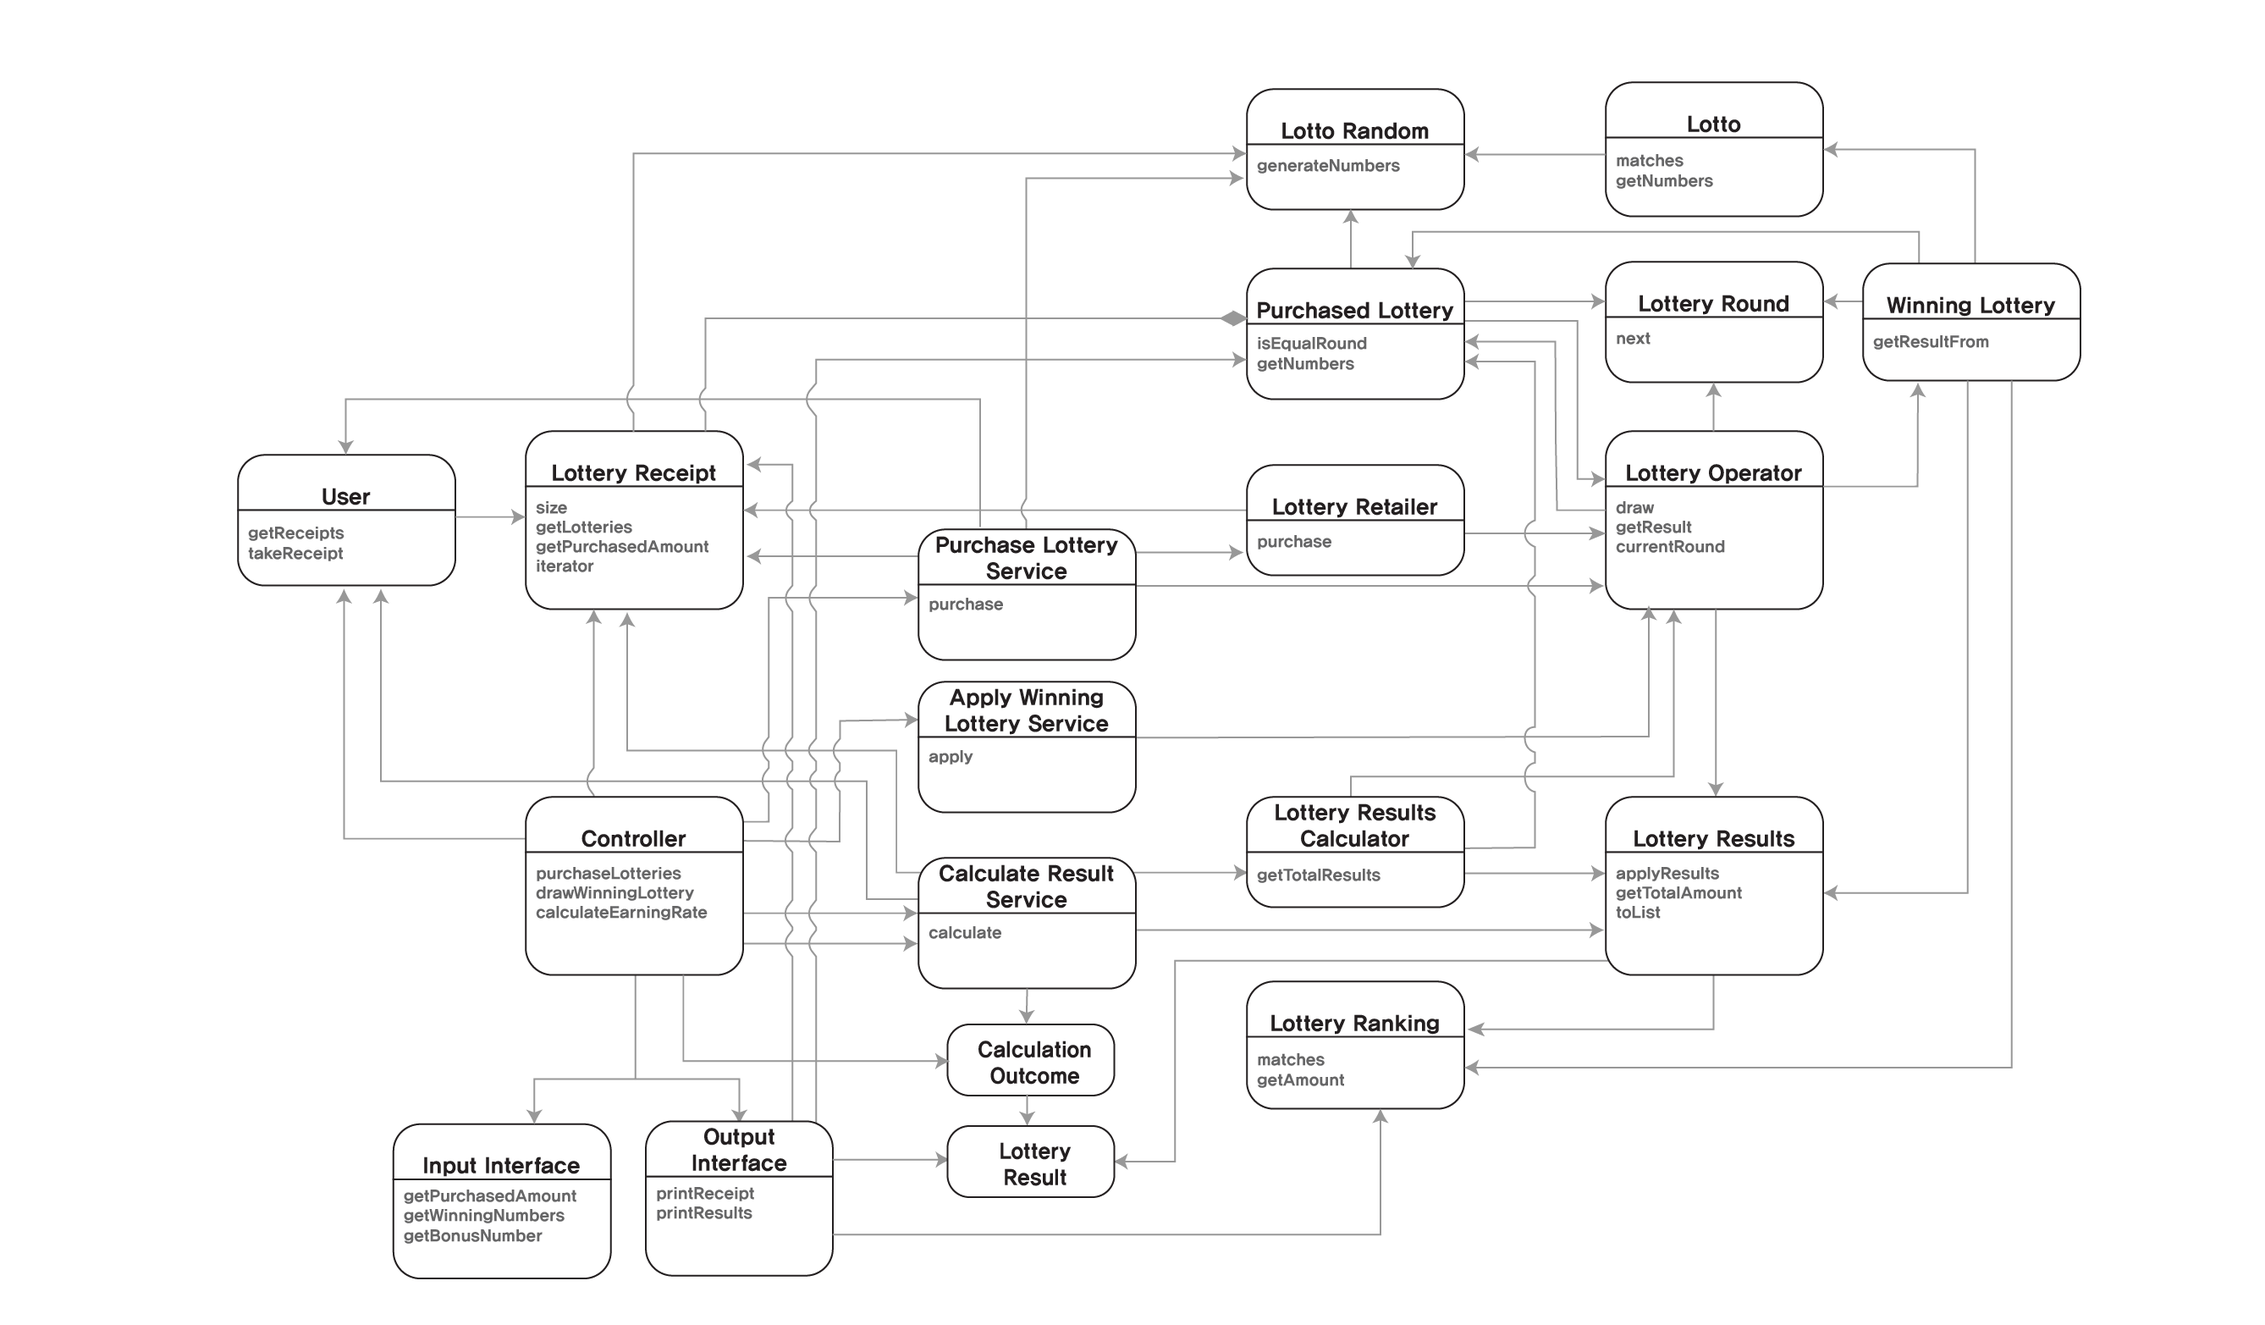
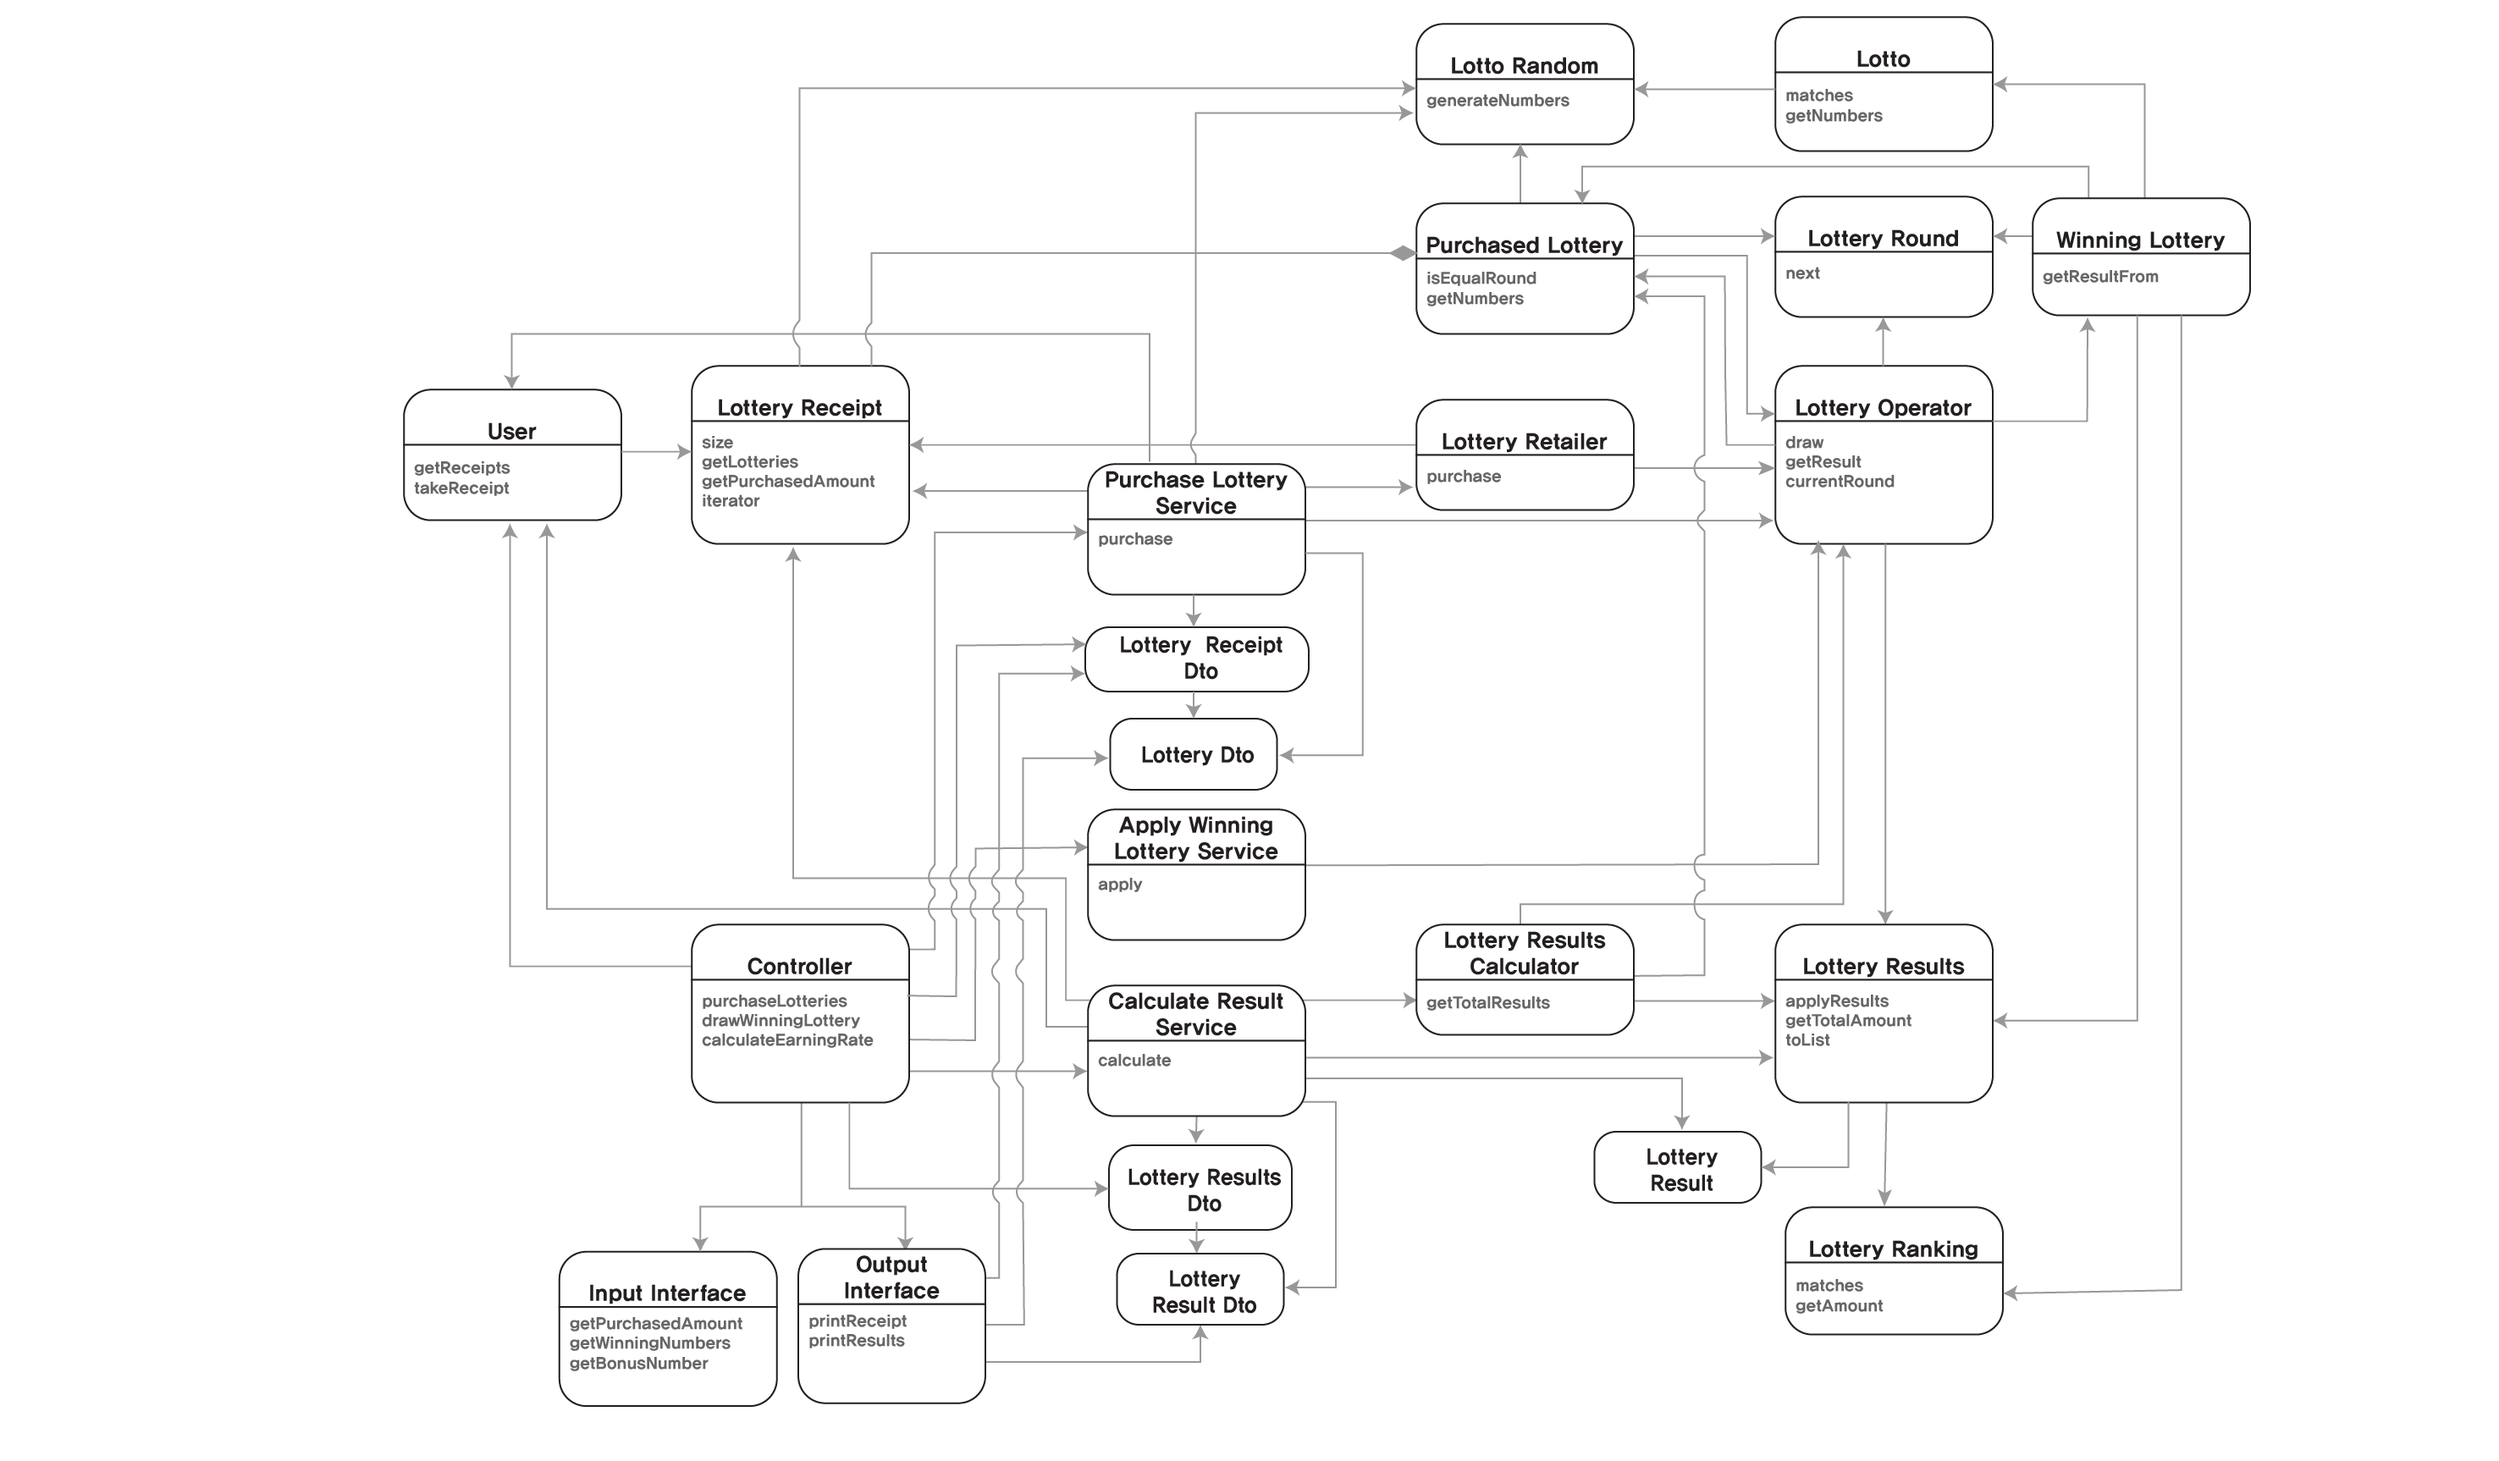
refactor: OutputInterface가 LotteryRanking 직접 의존하지 않게 하기 (#11)
* refactor: CalculationOutcome을 LotteryResults클래스 이름 변경
* refactor: OutputInterface가 LotteryResult 대신 LotteryResultDto에 의존하도록 하기

diff --git a/src/main/java/lotto/OutputInterface.java b/src/main/java/lotto/OutputInterface.java
@@ -11,11 +11,9 @@ import static lotto.resource.TextResourceProvider.QUANTITY_OUTPUT_TEXT_FORMAT;
 
 import java.text.NumberFormat;
 import java.util.List;
-import lotto.domain.LotteryRanking;
-import lotto.domain.LotteryResult;
-import lotto.domain.PurchasedLottery;
 import lotto.service.dto.LotteryDto;
 import lotto.service.dto.LotteryReceiptDto;
+import lotto.service.dto.LotteryResultDto;
 
 public class OutputInterface {
 
@@ -30,7 +28,7 @@ public class OutputInterface {
         System.out.println(renderReceipt(receipt));
     }
 
-    public void printResults(List<LotteryResult> results, double earningRate) {
+    public void printResults(List<LotteryResultDto> results, double earningRate) {
         System.out.println(OUTPUT_LOTTERY_RESULT_TEXT);
         System.out.println(OUTPUT_LOTTERY_RESULT_HEADER_LINE_TEXT);
         System.out.println(renderLotteryResults(results));
@@ -56,27 +54,25 @@ public class OutputInterface {
         return LOTTO_NUMBERS_TEXT_FORMAT.format(arguments) + "\n";
     }
 
-    private String renderLotteryResults(List<LotteryResult> results) {
+    private String renderLotteryResults(List<LotteryResultDto> results) {
         StringBuilder builder = new StringBuilder();
-        for (LotteryResult result : results) {
+        for (LotteryResultDto result : results) {
             builder.append(renderLotteryResult(result));
         }
         return builder.toString();
     }
 
-    private String renderLotteryResult(LotteryResult result) {
-        String counts = Integer.toString(result.counts());
-        if (result.ranking() == LotteryRanking.LAST_PLACE) {
+    private String renderLotteryResult(LotteryResultDto result) {
+        if ("LAST_PLACE".equals(result.ranking())) {
             return "";
         }
-        if (result.ranking() == LotteryRanking.SECOND) {
-            String matches = Integer.toString(result.ranking().matches);
-            String amount = renderAmount(result.ranking().getAmount());
+        String counts = Integer.toString(result.counts());
+        String matches = Integer.toString(result.rankingMatches());
+        String amount = renderAmount(result.rankingAmount());
+        if ("SECOND".equals(result.ranking())) {
             String header = LOTTERY_RANKING_RESULT_SECOND_HEADER_FORMAT.format(matches, amount);
             return LOTTERY_RANKING_RESULT_FORMAT.format(header, counts) + "\n";
         }
-        String matches = Integer.toString(result.ranking().matches);
-        String amount = renderAmount(result.ranking().getAmount());
         String header = LOTTERY_RANKING_RESULT_DEFAULT_HEADER_FORMAT.format(matches, amount);
         return LOTTERY_RANKING_RESULT_FORMAT.format(header, counts) + "\n";
     }

diff --git a/src/main/java/lotto/service/CalculateResultService.java b/src/main/java/lotto/service/CalculateResultService.java
@@ -1,11 +1,15 @@
 package lotto.service;
 
+import static java.util.stream.Collectors.toList;
+
 import java.util.List;
 import lotto.domain.LotteryReceipt;
+import lotto.domain.LotteryResult;
 import lotto.domain.LotteryResults;
 import lotto.domain.LotteryResultsCalculator;
 import lotto.domain.User;
-import lotto.service.dto.CalculationOutcome;
+import lotto.service.dto.LotteryResultDto;
+import lotto.service.dto.LotteryResultsDto;
 
 public class CalculateResultService {
 
@@ -15,7 +19,7 @@ public class CalculateResultService {
         this.calculator = calculator;
     }
 
-    public CalculationOutcome calculate(User user) {
+    public LotteryResultsDto calculate(User user) {
         List<LotteryReceipt> receipts = user.getReceipts();
 
         LotteryResults results = calculator.getTotalResults(receipts);
@@ -24,13 +28,27 @@ public class CalculateResultService {
 
         double earningRate = ((double) resultAmount / (double) purchaseAmount) * 100;
 
-        return new CalculationOutcome(results.toList(), earningRate);
+        return new LotteryResultsDto(convertResults(results), earningRate);
     }
 
-    private long calculatePurchaseAmount(List<LotteryReceipt> receipts) {
+    private static long calculatePurchaseAmount(List<LotteryReceipt> receipts) {
         return receipts.stream()
                 .mapToLong(LotteryReceipt::getPurchasedAmount)
                 .sum();
+    }
+
+    private static List<LotteryResultDto> convertResults(LotteryResults results){
+        return results.toList()
+                .stream()
+                .map(CalculateResultService::convertToLotteryResultDto)
+                .collect(toList());
+    }
+    private static LotteryResultDto convertToLotteryResultDto(LotteryResult result){
+        String rankingName = result.ranking().name();
+        int rankingMatches = result.ranking().matches;
+        int rankingAmount = result.ranking().getAmount();
+        int counts = result.counts();
+        return new LotteryResultDto(rankingName, rankingMatches, rankingAmount, counts);
     }
 
 }

diff --git a/src/main/java/lotto/Controller.java b/src/main/java/lotto/Controller.java
@@ -5,7 +5,7 @@ import lotto.domain.User;
 import lotto.service.ApplyWinningLotteryService;
 import lotto.service.CalculateResultService;
 import lotto.service.PurchaseLotteryService;
-import lotto.service.dto.CalculationOutcome;
+import lotto.service.dto.LotteryResultsDto;
 import lotto.service.dto.LotteryReceiptDto;
 
 public class Controller {
@@ -40,7 +40,7 @@ public class Controller {
     }
 
     public void calculateEarningRate() {
-        CalculationOutcome outcome = calculateResultService.calculate(user);
-        out.printResults(outcome.results(), outcome.earningRate());
+        LotteryResultsDto result = calculateResultService.calculate(user);
+        out.printResults(result.results(), result.earningRate());
     }
 }

diff --git a/src/main/java/lotto/service/dto/LotteryResultDto.java b/src/main/java/lotto/service/dto/LotteryResultDto.java
@@ -1,0 +1,9 @@
+package lotto.service.dto;
+
+public record LotteryResultDto(
+        String ranking,
+        int rankingMatches,
+        int rankingAmount,
+        int counts
+) {
+}

diff --git a/src/main/java/lotto/service/dto/LotteryResultsDto.java b/src/main/java/lotto/service/dto/LotteryResultsDto.java
@@ -1,0 +1,9 @@
+package lotto.service.dto;
+
+import java.util.List;
+
+public record LotteryResultsDto(
+        List<LotteryResultDto> results,
+        double earningRate) {
+
+}
